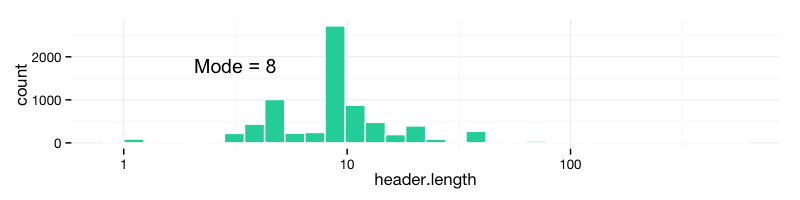
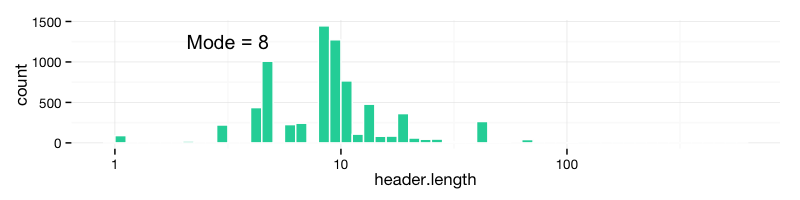
New histogram header length

diff --git a/csv-stats/the_status_of_csvs_on_data.gov.uk.md b/csv-stats/the_status_of_csvs_on_data.gov.uk.md
@@ -2,9 +2,8 @@
 
 In January 2014 we created a file that contains all CSVs published on [data.gov.uk](http://data.gov.uk). It's a simple file that mainly lists all the URLs on data.gov.uk that are classified as data in a CSV format. 
 
-rantirat 
-class="table offers table-horizontally-condensed”
-<table >
+ 
+<table> class="table offers table-horizontally-condensed”>
   <tr>
     <td>dataset</td>
     <td>Usually title and publisher</td>
@@ -40,12 +39,12 @@ The vast majority of CSV files is between 1 kb and 1 mb in size.
 
 There are numerous problems that prohibit importing, or even reading, a CSV file with a machine. 
 
-1. Not available, for example because the link changed, the website is down.
-2. Errors that may be circumvented such as `# curl: (60) SSL certificate problem: Invalid certificate chain`
+1. Not available, for example because the link changed or the website is down.
+2. Errors that can be circumvented such as `# curl: (60) SSL certificate problem: Invalid certificate chain`
 3. Non-standard symbols that are not recognised. For example, an `invalid multibyte string` or erroneous line ending.
 4. Files where the header row is not in line 1 or not specified. More in the next section.
 5. Multiple tables in one file
-6. And many, many more.
+6. And many more.
 
 We can loosely summarise them by recognising the source of many CSV files: **often a direct copy of an Excel sheet**. An Excel sheet, optimised to be read by humans. 
 
@@ -68,8 +67,13 @@ A simple example is below. The first line is the title and the second one is emp
    ![example](https://raw.github.com/theodi/R-projects/master/csv-stats/graphics/miss-header-example.png)
 
 Moreover, it is a good idea to check whether the CSV contains more than one table.
-A. Check whether the header names appear in the respective column again.
 
+
+## Headers and schemas
+
+After much experimentation we managed to automatically read 7,390 CSV-files. All of them have of course header names that can be analysed. For example, we see that a typical size of an CSV-file on data.gov.uk has eight columns.
+
+![header-length](https://raw.github.com/theodi/R-projects/master/csv-stats/graphics/header-length-histogram.png)
 
 
 
